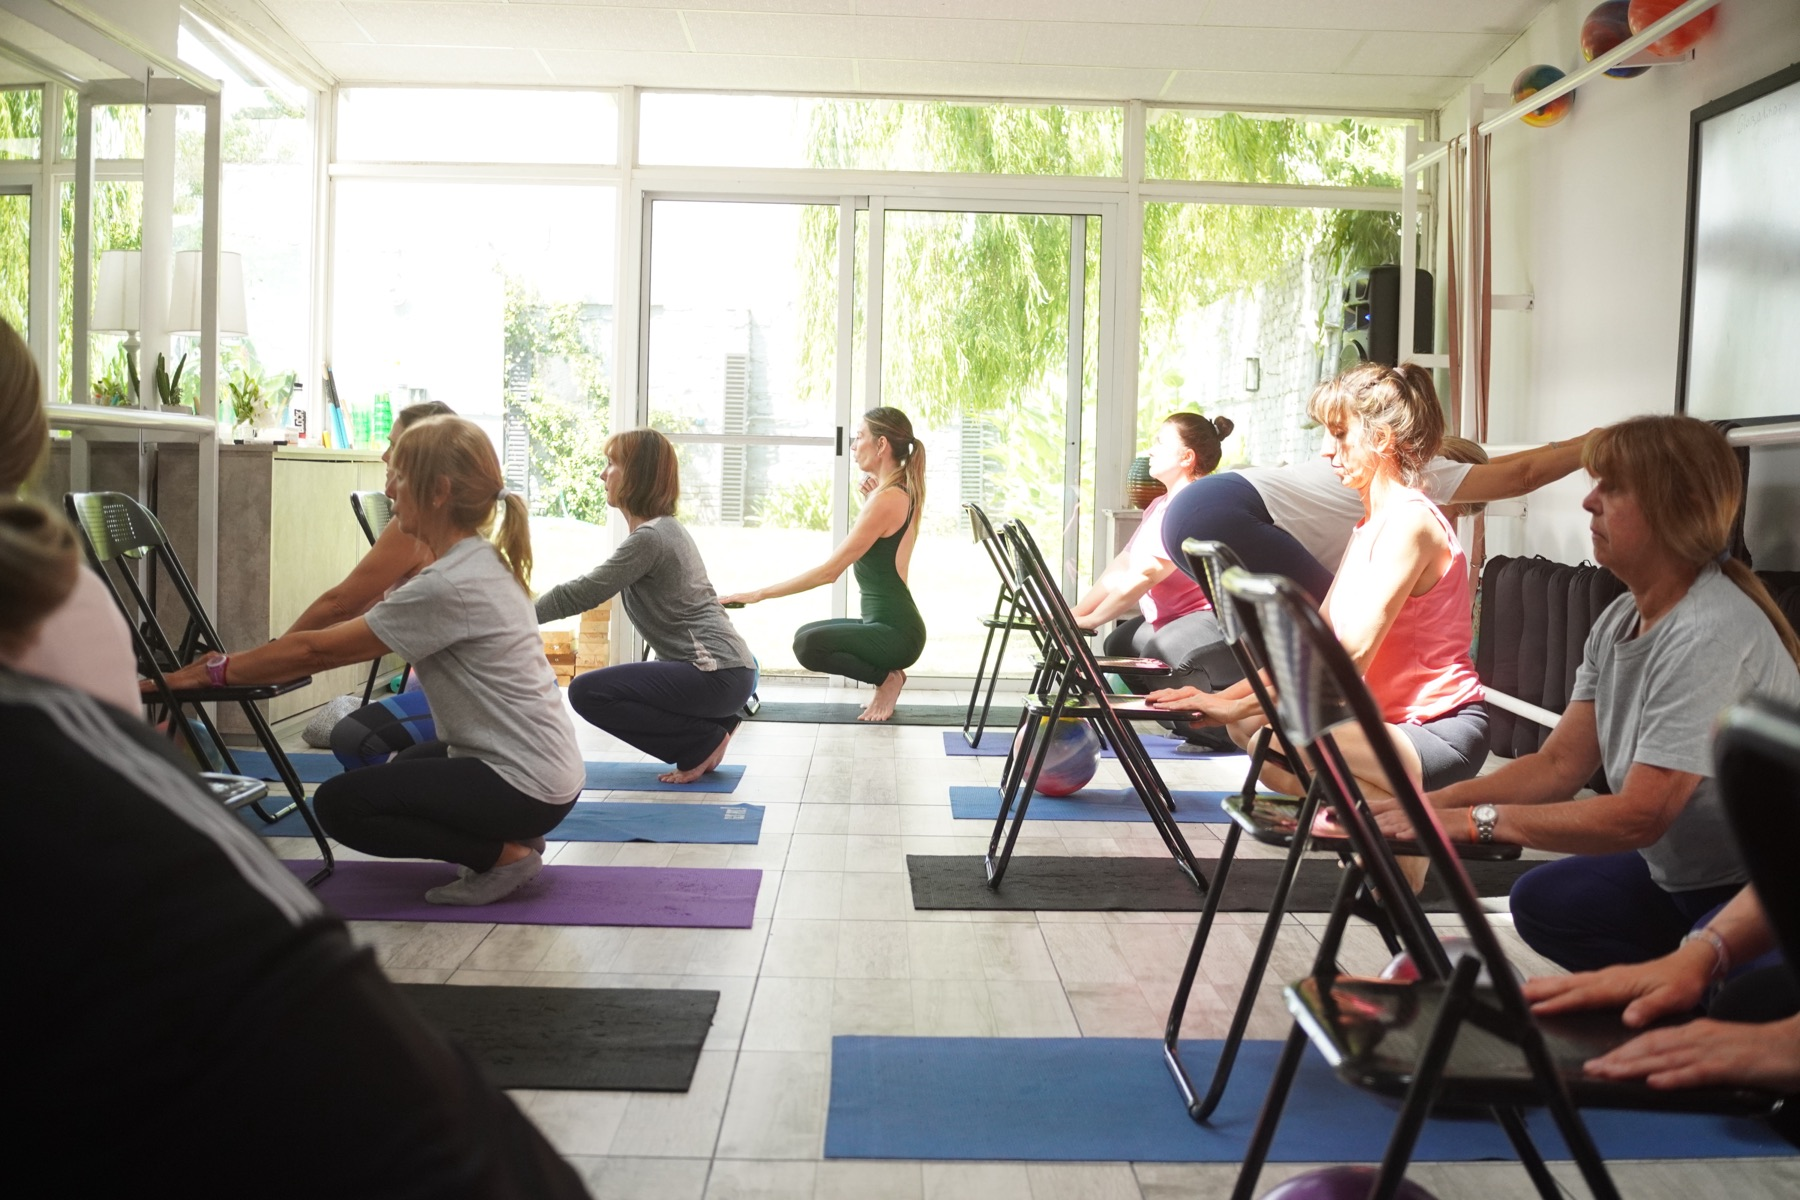
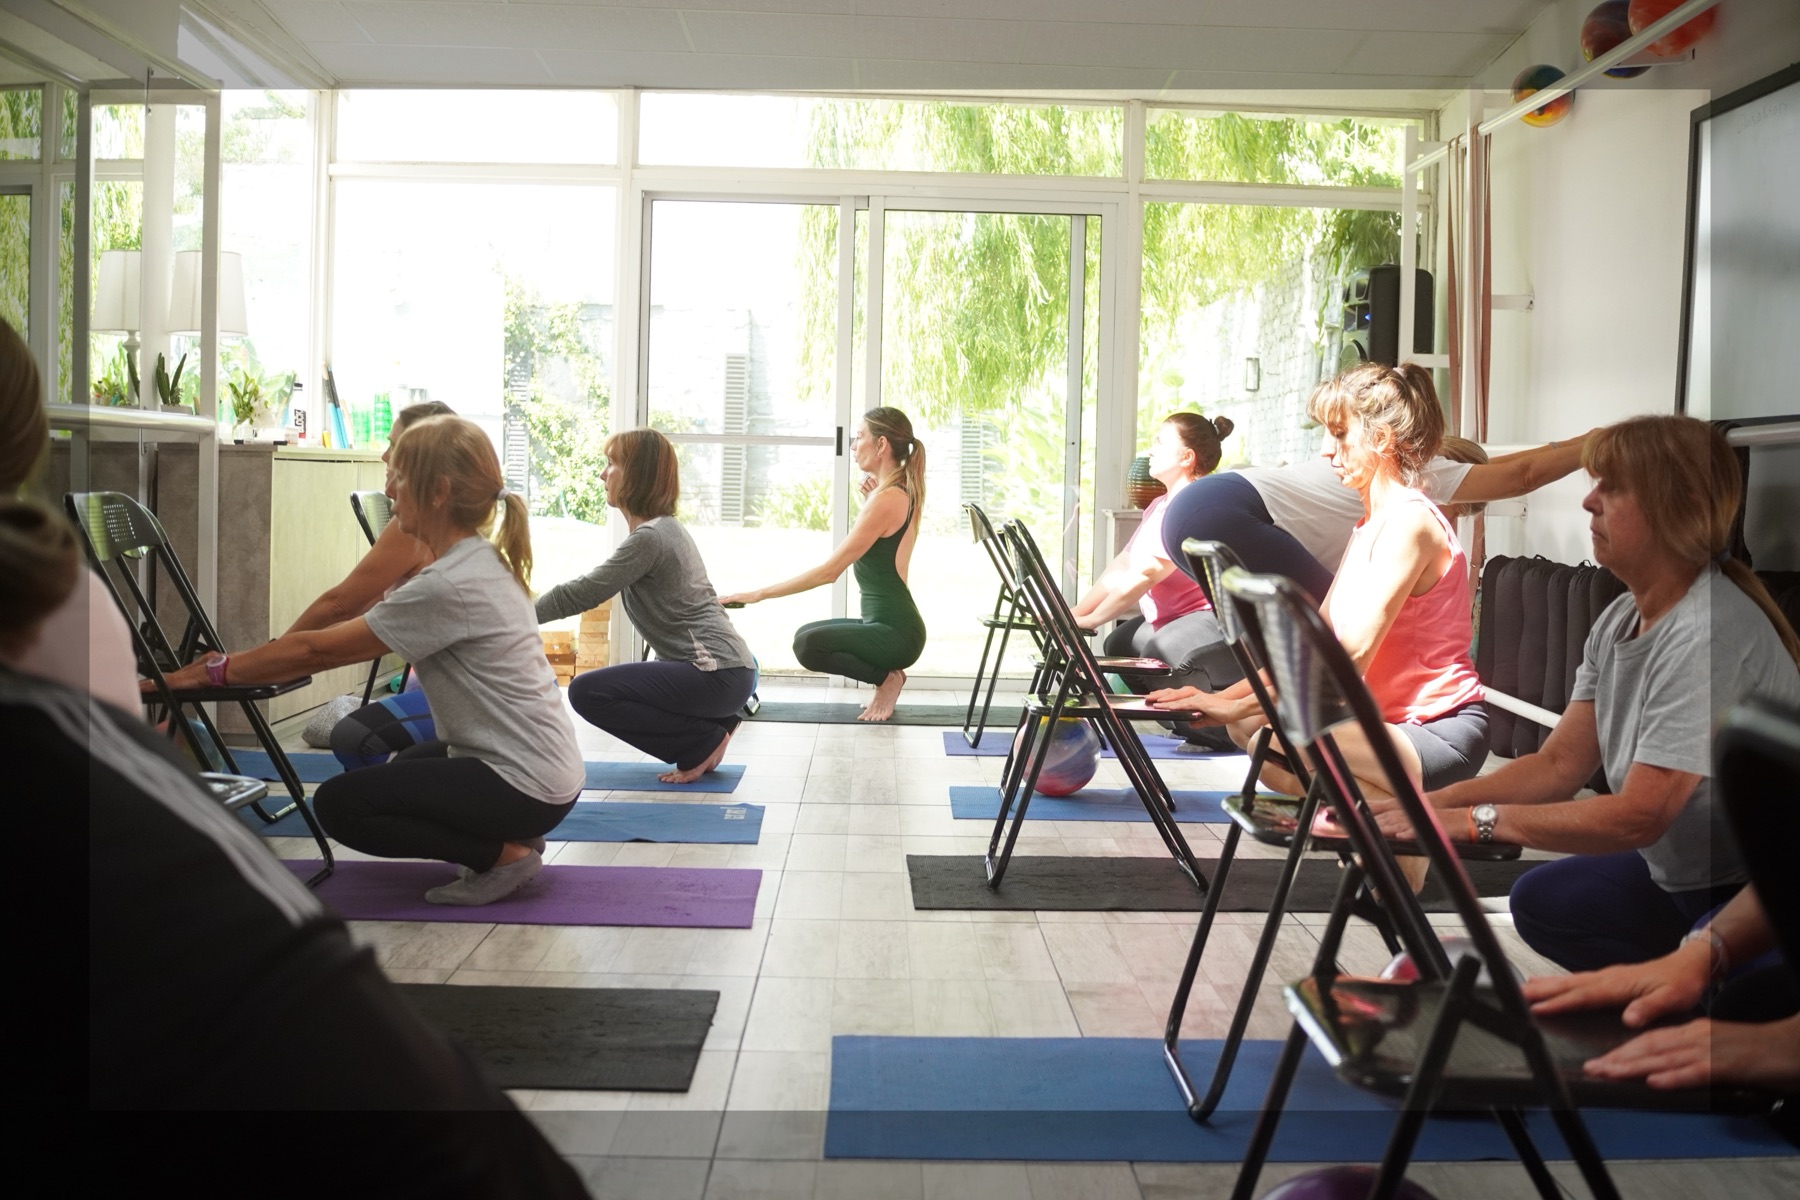
Re-export hero photo from the freshly provided source and open up the desktop crop to show more of the room

diff --git a/index.html b/index.html
@@ -164,9 +164,9 @@ header.is-scrolled .nav-links a{ text-shadow:none; }
   position:relative;
   min-height:480px; display:flex; align-items:flex-start;
 }
-@media (min-width:900px){ .hero-banner{ min-height:620px; align-items:center; } }
+@media (min-width:900px){ .hero-banner{ min-height:540px; align-items:center; } }
 .hero-banner-img{ position:absolute; inset:0; width:100%; height:100%; object-fit:cover; object-position:55% 30%; }
-@media (min-width:900px){ .hero-banner-img{ object-position:22% 40%; } }
+@media (min-width:900px){ .hero-banner-img{ object-position:32% 42%; } }
 .hero-banner-overlay{
   position:absolute; inset:0;
   background:linear-gradient(180deg, rgba(15,20,22,.46) 0%, rgba(15,20,22,.14) 55%, rgba(15,20,22,.06) 100%);
